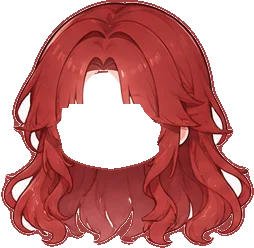
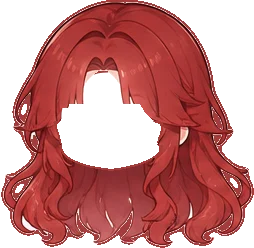
Hộp mù 20/10: bỏ nền trắng kẹt trong tóc, mắt nhỏ lại, mặt nét mềm khi mặc đồ vẽ tay cho đồng bộ
Claude-Session: https://claude.ai/code/session_013Ek66XSGhjpwjPLoyRwaLz

diff --git a/index.html b/index.html
@@ -1126,6 +1126,10 @@ function avgStars(n=40){ const r=S.reviews.slice(0,n); return r.length?r.reduce(
 const OL='#5b3a33';
 function ell(g,x,y,rx,ry,rot=0){ g.beginPath(); g.ellipse(x,y,rx,ry,rot,0,Math.PI*2); }
 function drawBust(g,x,y,r,L,o={}){
+  // 💐 đồ vẽ tay (hộp mù 20/10): khuôn mặt chuyển sang nét mềm cho hợp, mắt/môi mặc định cũng là bản vẽ tay
+  const PNT=k=>k&&!/\/p_/.test(Array.isArray(k)?k[0]:k);
+  const soft=!!(PNT(L.wH)||PNT(L.wE)||PNT(L.wM)||PNT(L.wB)||PNT(L.wHat));
+  if(soft){ L={...L}; if(!L.wE&&!L.hmE) L.wE=['w20/e5',1.55,0.22,0]; if(!L.wM&&!L.hmM) L.wM=['w20/l3',0.55,0.63,0]; }
   const lw=Math.max(1.4,r*0.075), mood=o.mood||L.mood||'normal';
   const isF=L.f!=null?L.f:(['long','bob','bun','pony','pig'].includes(L.hs)||L.hat==='maid'||!!L.bow);
   const maid=L.outfit==='maid';
@@ -1161,7 +1165,8 @@ function drawBust(g,x,y,r,L,o={}){
   // tai + đầu
   g.fillStyle=L.skin;
   if(!L.wH) for(const s of [-1,1]){ ell(g,x+s*r*0.95,y+r*0.12,r*0.2,r*0.24); g.fill(); g.stroke(); }
-  ell(g,x,y,r,r*0.94); g.fill(); g.stroke();
+  if(soft){ const sg=g.createRadialGradient(x-r*0.2,y-r*0.1,r*0.1,x,y,r*1.05); sg.addColorStop(0,shade(L.skin,8)); sg.addColorStop(1,shade(L.skin,-6)); g.fillStyle=sg; ell(g,x,y,r,r*0.94); g.fill(); g.save(); g.strokeStyle='rgba(150,90,80,.55)'; g.lineWidth=lw*0.45; g.stroke(); g.restore(); g.fillStyle=L.skin; }
+  else { ell(g,x,y,r,r*0.94); g.fill(); g.stroke(); }
   // tóc trước / mũ
   if(L.wH){ drawWH(!!L.wH[4]); }
   else if(L.cap){
@@ -1229,10 +1234,11 @@ function drawBust(g,x,y,r,L,o={}){
   if(L.shades){ g.fillStyle='#2b2b36'; for(const sd of [-1,1]){ rr(g,x+sd*ex-r*0.24,ey-r*0.16,r*0.48,r*0.3,r*0.1); g.fill(); g.stroke(); } g.beginPath(); g.moveTo(x-ex+r*0.24,ey-r*0.05); g.lineTo(x+ex-r*0.24,ey-r*0.05); g.stroke(); g.fillStyle='rgba(255,255,255,.5)'; for(const sd of [-1,1]){ rr(g,x+sd*ex-r*0.16,ey-r*0.11,r*0.12,r*0.06,r*0.03); g.fill(); } }
   if(L.glasses){ g.lineWidth=lw*0.7; for(const s of [-1,1]){ ell(g,x+s*ex,ey,r*0.24,r*0.26); g.stroke(); } g.beginPath(); g.moveTo(x-ex+r*0.24,ey); g.lineTo(x+ex-r*0.24,ey); g.stroke(); g.lineWidth=lw; }
   // má hồng
-  g.fillStyle=mood==='angry'?'rgba(240,90,90,.6)':'rgba(247,140,160,.55)';
-  for(const s of [-1,1]){ ell(g,x+s*r*0.64,y+r*0.5,r*0.19,r*0.11); g.fill(); }
+  if(soft){ for(const s of [-1,1]){ const bg=g.createRadialGradient(x+s*r*0.6,y+r*0.48,0,x+s*r*0.6,y+r*0.48,r*0.24); bg.addColorStop(0,'rgba(255,130,155,.45)'); bg.addColorStop(1,'rgba(255,130,155,0)'); g.fillStyle=bg; ell(g,x+s*r*0.6,y+r*0.48,r*0.26,r*0.16); g.fill(); } }
+  else { g.fillStyle=mood==='angry'?'rgba(240,90,90,.6)':'rgba(247,140,160,.55)';
+  for(const s of [-1,1]){ ell(g,x+s*r*0.64,y+r*0.5,r*0.19,r*0.11); g.fill(); } }
   g.strokeStyle='rgba(230,110,130,.8)'; g.lineWidth=lw*0.45;
-  for(const s of [-1,1]) for(let k=-1;k<=1;k++){ g.beginPath(); g.moveTo(x+s*r*0.64+k*r*0.08-r*0.03,y+r*0.54); g.lineTo(x+s*r*0.64+k*r*0.08+r*0.03,y+r*0.46); g.stroke(); }
+  if(!soft) for(const s of [-1,1]) for(let k=-1;k<=1;k++){ g.beginPath(); g.moveTo(x+s*r*0.64+k*r*0.08-r*0.03,y+r*0.54); g.lineTo(x+s*r*0.64+k*r*0.08+r*0.03,y+r*0.46); g.stroke(); }
   // mũi
   g.fillStyle='rgba(200,120,100,.6)'; ell(g,x,y+r*0.44,r*0.025,r*0.018); g.fill();
   // miệng
@@ -2736,12 +2742,12 @@ const WARDROBE=[
   {id:'w2_t18',slot:'outfit',name:'Sơ mi thêu nơ đỏ',img:'w20/t18.webp',price:0,ev:'w20',wB:'w20/t18'},
   {id:'w2_t19',slot:'outfit',name:'Croptop hai dây nơ',img:'w20/t19.webp',price:0,ev:'w20',wB:'w20/t19'},
   {id:'w2_t20',slot:'outfit',name:'Blouse thêu tim',img:'w20/t20.webp',price:0,ev:'w20',wB:'w20/t20'},
-  {id:'w2_e1',slot:'eyes',name:'Mắt tim hồng',img:'w20/e1.webp',price:0,ev:'w20',wE:['w20/e1',2.2,0.18,0]},
-  {id:'w2_e2',slot:'eyes',name:'Mắt nâu lấp lánh',img:'w20/e2.webp',price:0,ev:'w20',wE:['w20/e2',2.2,0.18,0]},
-  {id:'w2_e3',slot:'eyes',name:'Mắt tím ngân hà',img:'w20/e3.webp',price:0,ev:'w20',wE:['w20/e3',2.2,0.18,0]},
-  {id:'w2_e4',slot:'eyes',name:'Mắt xanh sao đêm',img:'w20/e4.webp',price:0,ev:'w20',wE:['w20/e4',2.2,0.18,0]},
-  {id:'w2_e5',slot:'eyes',name:'Mắt hổ phách',img:'w20/e5.webp',price:0,ev:'w20',wE:['w20/e5',2.2,0.18,0]},
-  {id:'w2_e6',slot:'eyes',name:'Mắt lục bảo',img:'w20/e6.webp',price:0,ev:'w20',wE:['w20/e6',2.2,0.18,0]},
+  {id:'w2_e1',slot:'eyes',name:'Mắt tim hồng',img:'w20/e1.webp',price:0,ev:'w20',wE:['w20/e1',1.55,0.22,0]},
+  {id:'w2_e2',slot:'eyes',name:'Mắt nâu lấp lánh',img:'w20/e2.webp',price:0,ev:'w20',wE:['w20/e2',1.55,0.22,0]},
+  {id:'w2_e3',slot:'eyes',name:'Mắt tím ngân hà',img:'w20/e3.webp',price:0,ev:'w20',wE:['w20/e3',1.55,0.22,0]},
+  {id:'w2_e4',slot:'eyes',name:'Mắt xanh sao đêm',img:'w20/e4.webp',price:0,ev:'w20',wE:['w20/e4',1.55,0.22,0]},
+  {id:'w2_e5',slot:'eyes',name:'Mắt hổ phách',img:'w20/e5.webp',price:0,ev:'w20',wE:['w20/e5',1.55,0.22,0]},
+  {id:'w2_e6',slot:'eyes',name:'Mắt lục bảo',img:'w20/e6.webp',price:0,ev:'w20',wE:['w20/e6',1.55,0.22,0]},
   {id:'w2_l1',slot:'mouth',name:'Môi hôn gió tim',img:'w20/l1.webp',price:0,ev:'w20',wM:['w20/l1',0.8,0.63,0]},
   {id:'w2_l2',slot:'mouth',name:'Môi hé cười',img:'w20/l2.webp',price:0,ev:'w20',wM:['w20/l2',0.8,0.63,0]},
   {id:'w2_l3',slot:'mouth',name:'Môi mím xinh',img:'w20/l3.webp',price:0,ev:'w20',wM:['w20/l3',0.8,0.63,0]},
@@ -2753,7 +2759,7 @@ const WARDROBE=[
   {id:'w2_a4',slot:'pet',name:'Nai Hoa Hồng',img:'w20/a4.webp',price:0,ev:'w20',hmP:'w20/a4'},
   {id:'w2_a5',slot:'pet',name:'Cú Thiên Thần',img:'w20/a5.webp',price:0,ev:'w20',hmP:'w20/a5'},
   {id:'w2_a6',slot:'hat',name:'Vòng hoa hồng chuỗi ngọc',img:'w20/a6.webp',price:0,ev:'w20',wHat:['w20/a6',2.5,0,-1.3]},
-  {id:'w2_a7',slot:'hat',name:'Mũ bèo nơ đỏ',img:'w20/a7.webp',price:0,ev:'w20',wHat:['w20/a7',2.5,0.05,-1.75]},
+  {id:'w2_a7',slot:'hat',name:'Mũ bèo nơ đỏ',img:'w20/a7.webp',price:0,ev:'w20',wHat:['w20/a7',2.4,-0.05,-2.0]},
   {id:'w2_a8',slot:'hat',name:'Nơ cài hoa hồng',img:'w20/a8.webp',price:0,ev:'w20',wHat:['w20/a8',1.25,0.62,-1.25]},
   {id:'w2_a9',slot:'hat',name:'Cánh bướm nơ',img:'w20/a9.webp',price:0,ev:'w20',wHat:['w20/a9',1.2,-0.62,-1.25]},
   {id:'w2_a10',slot:'hat',name:'Mũ nồi nơ tim',img:'w20/a10.webp',price:0,ev:'w20',wHat:['w20/a10',2.4,0.05,-1.75]},
